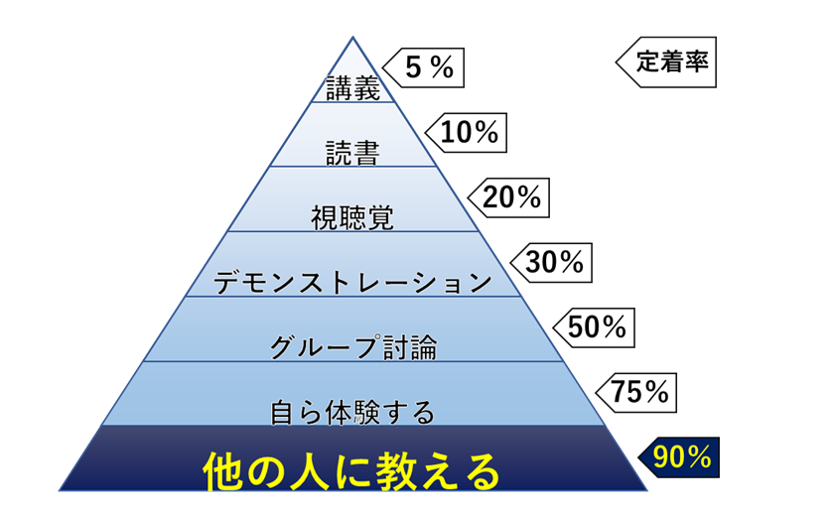
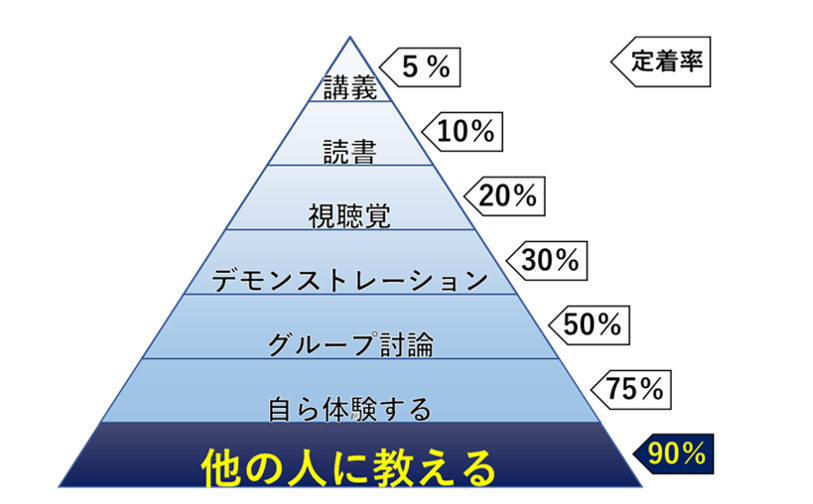
info 01

Changed region(s): [[0.0615, 0.0595, 0.8918, 0.9821], [0.738, 0.0595, 0.8918, 0.1786]]

diff --git a/public/css/app.css b/public/css/app.css
@@ -697,6 +697,10 @@ select {
 .-m-4 {
   margin: -1rem;
 }
+.-mx-4 {
+  margin-left: -1rem;
+  margin-right: -1rem;
+}
 .-my-8 {
   margin-top: -2rem;
   margin-bottom: -2rem;
@@ -708,11 +712,17 @@ select {
 .-mb-1 {
   margin-bottom: -0.25rem;
 }
+.-mb-10 {
+  margin-bottom: -2.5rem;
+}
 .-ml-px {
   margin-left: -1px;
 }
 .-mr-2 {
   margin-right: -0.5rem;
+}
+.-mt-4 {
+  margin-top: -1rem;
 }
 .-mt-px {
   margin-top: -1px;
@@ -818,6 +828,9 @@ select {
 }
 .h-full {
   height: 100%;
+}
+.h-2 {
+  height: 0.5rem;
 }
 .min-h-screen {
   min-height: 100vh;
@@ -1087,8 +1100,35 @@ select {
   --tw-bg-opacity: 1;
   background-color: rgb(255 255 255 / var(--tw-bg-opacity));
 }
+.bg-blue-200 {
+  --tw-bg-opacity: 1;
+  background-color: rgb(191 219 254 / var(--tw-bg-opacity));
+}
+.bg-blue-100 {
+  --tw-bg-opacity: 1;
+  background-color: rgb(219 234 254 / var(--tw-bg-opacity));
+}
 .bg-opacity-50 {
   --tw-bg-opacity: 0.5;
+}
+.bg-gradient-to-r {
+  background-image: linear-gradient(to right, var(--tw-gradient-stops));
+}
+.from-gray-500 {
+  --tw-gradient-from: #6b7280;
+  --tw-gradient-to: rgb(107 114 128 / 0);
+  --tw-gradient-stops: var(--tw-gradient-from), var(--tw-gradient-to);
+}
+.from-indigo-900 {
+  --tw-gradient-from: #312e81;
+  --tw-gradient-to: rgb(49 46 129 / 0);
+  --tw-gradient-stops: var(--tw-gradient-from), var(--tw-gradient-to);
+}
+.to-gray-500 {
+  --tw-gradient-to: #6b7280;
+}
+.to-gray-100 {
+  --tw-gradient-to: #f3f4f6;
 }
 .fill-current {
   fill: currentColor;
@@ -1173,6 +1213,9 @@ select {
 .pb-1 {
   padding-bottom: 0.25rem;
 }
+.pb-24 {
+  padding-bottom: 6rem;
+}
 .pb-3 {
   padding-bottom: 0.75rem;
 }
@@ -1188,8 +1231,14 @@ select {
 .pt-1 {
   padding-top: 0.25rem;
 }
+.pt-12 {
+  padding-top: 3rem;
+}
 .pt-2 {
   padding-top: 0.5rem;
+}
+.pt-24 {
+  padding-top: 6rem;
 }
 .pt-4 {
   padding-top: 1rem;
@@ -1203,6 +1252,9 @@ select {
 .pt-8 {
   padding-top: 2rem;
 }
+.pb-12 {
+  padding-bottom: 3rem;
+}
 .text-center {
   text-align: center;
 }
@@ -1212,6 +1264,10 @@ select {
 .text-2xl {
   font-size: 1.5rem;
   line-height: 2rem;
+}
+.text-4xl {
+  font-size: 2.25rem;
+  line-height: 2.5rem;
 }
 .text-base {
   font-size: 1rem;
@@ -1339,6 +1395,12 @@ select {
 }
 .underline {
   text-decoration-line: underline;
+}
+.decoration-indigo-900 {
+  text-decoration-color: #312e81;
+}
+.decoration-4 {
+  text-decoration-thickness: 4px;
 }
 .antialiased {
   -webkit-font-smoothing: antialiased;
@@ -1621,9 +1683,17 @@ select {
 }
 @media (min-width: 640px) {
 
+  .sm\:-m-4 {
+    margin: -1rem;
+  }
+
   .sm\:-my-px {
     margin-top: -1px;
     margin-bottom: -1px;
+  }
+
+  .sm\:mb-0 {
+    margin-bottom: 0px;
   }
 
   .sm\:ml-0 {
@@ -1720,6 +1790,10 @@ select {
 
   .md\:w-1\/2 {
     width: 50%;
+  }
+
+  .md\:w-1\/3 {
+    width: 33.333333%;
   }
 
   .md\:w-2\/3 {

diff --git a/resources/views/info.blade.php b/resources/views/info.blade.php
@@ -1,0 +1,55 @@
+<x-app-layout>
+    <x-slot name="header">
+        <h2 class="font-semibold text-xl text-gray-800 leading-tight">
+            レミティーとは
+        </h2>
+    </x-slot>
+
+    <section class="text-gray-600 body-font">
+        <div class="container px-5 pt-24 pb-12 mx-auto bg-blue-100">
+            <div class="flex flex-col text-center w-full mb-12">
+                <h1 class="sm:text-3xl text-4xl font-medium title-font mb-4 text-indigo-900 text-bold">レミティー</h1>
+                <h1 class="sm:text-3xl text-4xl font-medium title-font mb-4 text-bold">科学に基づいた学習サイト</h1>
+            </div>
+        </div>
+    
+        <div class="container px-5 pt-8 pb-24 mx-auto">
+            <div class="flex flex-col">
+                <div class="flex flex-col text-center w-full mb-12">
+                    <h1 class="sm:text-3xl text-4xl font-medium title-font mb-2 text-bold">レミティーの<span class="text-4xl text-indigo-900">３</span>つの特徴</h1>
+                </div>
+            </div>
+            <div class="flex flex-wrap sm:-m-4 -mx-4 -mb-10 -mt-4">
+                <div class="p-4 md:w-1/3 sm:mb-0 mb-6">
+                    <h2 class="title-font text-2xl font-medium text-indigo-900">一生身につくアウトプット</h2>
+                    <div class="w-full h-2 bg-gradient-to-r from-indigo-900 to-gray-100 ...">
+                    </div>
+                    <div class="rounded-lg h-64 overflow-hidden pt-4">
+                        <img alt="content" class="object-cover object-center h-full w-full bg-white" src="{{ asset('images/info01.png') }}">
+                    </div>
+                    <p class="text-base leading-relaxed mt-2">アメリカ国立訓練研究所の研究で、<span class="text-indigo-900 text-bold underline">最も定着率が高い学習方法は人に教えること</span>であることが示された。</br>学んだことを人に教えて一生使える技術にしよう！</p>
+                </div>
+                <div class="p-4 md:w-1/3 sm:mb-0 mb-6">
+                    <h2 class="title-font text-2xl font-medium text-indigo-900">認知特性に合わせたインプット</h2>
+                    <div class="w-full h-2 bg-gradient-to-r from-indigo-900 to-gray-100 ...">
+                    </div>
+                    <div class="rounded-lg h-64 overflow-hidden pt-4">
+                        <img alt="content" class="object-cover object-center h-full w-full bg-white" src="{{ asset('images/info02.png') }}">
+                    </div>
+                    <p class="text-base leading-relaxed mt-2">人の認知特性は3タイプに分けられる。</br>自分の<span class="text-indigo-900 text-bold underline">タイプに合わせた学習方法</span>で効率的なインプットが可能に！</p>
+                </div>
+                <div class="p-4 md:w-1/3 sm:mb-0 mb-6">
+                    <h2 class="title-font text-2xl font-medium text-indigo-900">評価機能で教える力が向上</h2>
+                    <div class="w-full h-2 bg-gradient-to-r from-indigo-900 to-gray-100 ...">
+                    </div>
+                    <div class="rounded-lg h-64 overflow-hidden pt-4">
+                        <img alt="content" class="object-cover object-center h-full w-full bg-white" src="{{ asset('images/info03.png') }}">
+                    </div>
+                    <p class="text-base leading-relaxed mt-2">アウトプットに対してフィードバックをもらおう！</br><span class="text-indigo-900 text-bold underline">フィードバックを取り入れてアウトプットをよりわかりやすいもの</span>に修正しよう！</p>
+                </div>              
+            </div>
+        </div>
+    </section>
+
+
+</x-app-layout>

diff --git a/resources/views/layouts/navigation.blade.php b/resources/views/layouts/navigation.blade.php
@@ -36,8 +36,9 @@
                 <x-dropdown align="right" width="48">
                     <x-slot name="trigger">
                         <button class="flex items-center text-sm font-medium text-gray-500 hover:text-gray-700 hover:border-gray-300 focus:outline-none focus:text-gray-700 focus:border-gray-300 transition duration-150 ease-in-out">
-                            <div>{{ Auth::user()->name }}</div>
-
+                            @auth
+                                <div>{{ Auth::user()->name }}</div>
+                            @endauth
                             <div class="ml-1">
                                 <svg class="fill-current h-4 w-4" xmlns="http://www.w3.org/2000/svg" viewBox="0 0 20 20">
                                     <path fill-rule="evenodd" d="M5.293 7.293a1 1 0 011.414 0L10 10.586l3.293-3.293a1 1 0 111.414 1.414l-4 4a1 1 0 01-1.414 0l-4-4a1 1 0 010-1.414z" clip-rule="evenodd" />
@@ -84,8 +85,10 @@
         <!-- Responsive Settings Options -->
         <div class="pt-4 pb-1 border-t border-gray-200">
             <div class="px-4">
+                @auth
                 <div class="font-medium text-base text-gray-800">{{ Auth::user()->name }}</div>
                 <div class="font-medium text-sm text-gray-500">{{ Auth::user()->email }}</div>
+                @endauth
             </div>
 
             <div class="mt-3 space-y-1">

diff --git a/routes/web.php b/routes/web.php
@@ -30,4 +30,8 @@ Route::resource('posts', PostsController::class)->middleware('auth');
 
 Route::resource('posts.reviews', ReviewsController::class)->middleware('auth');
 
+Route::get('/info', function () {
+    return view('info');
+});
+
 require __DIR__.'/auth.php';
